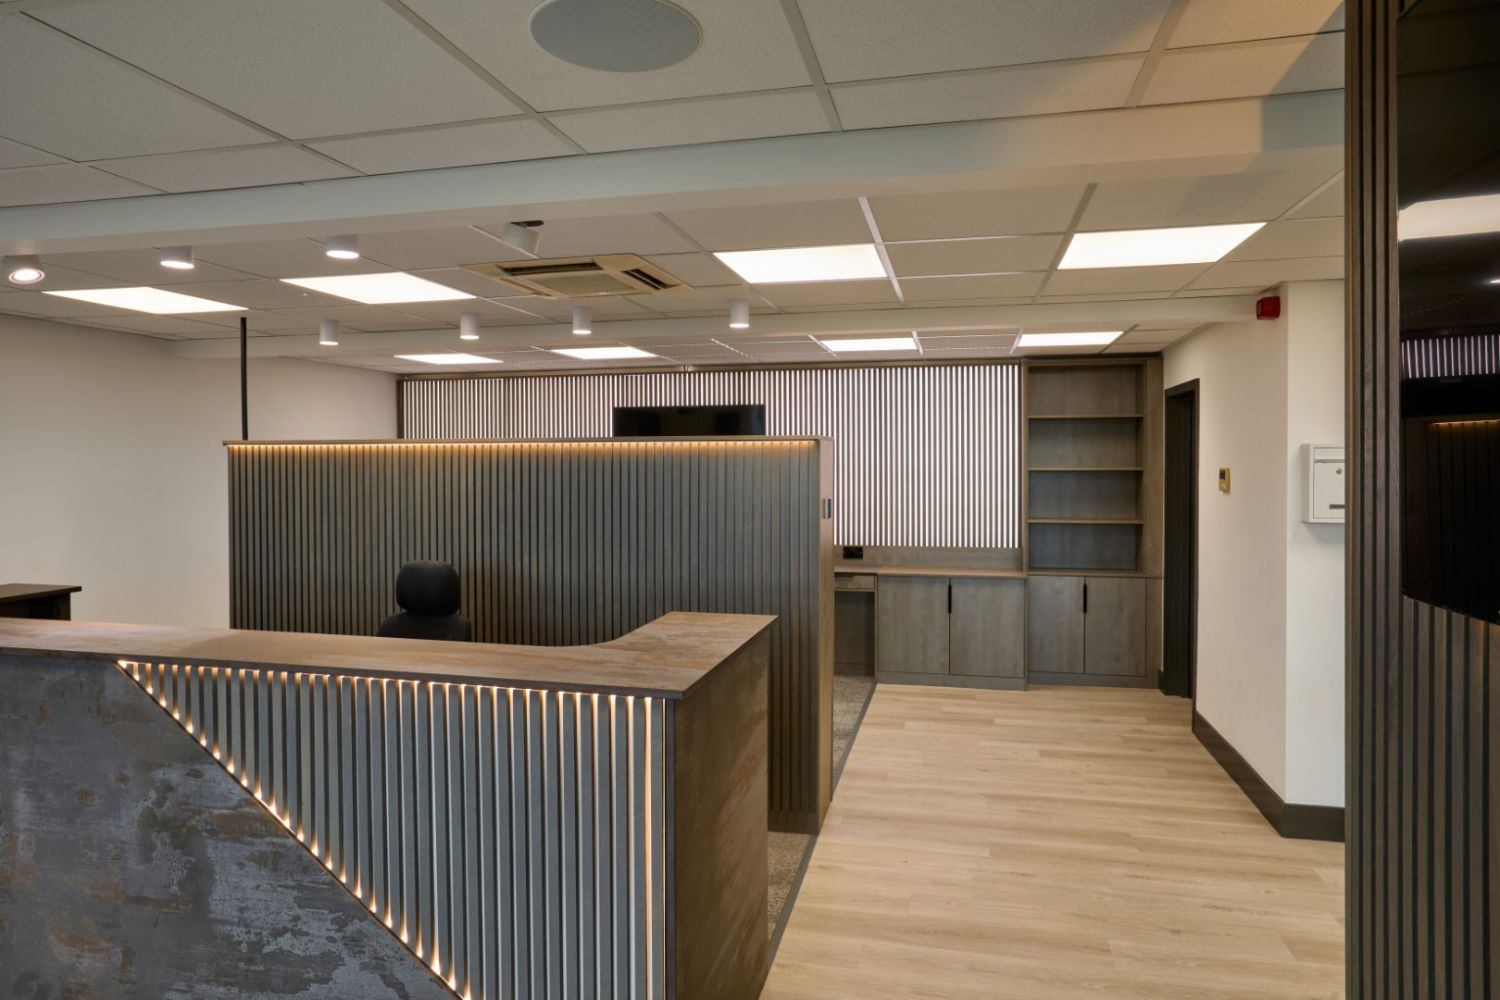
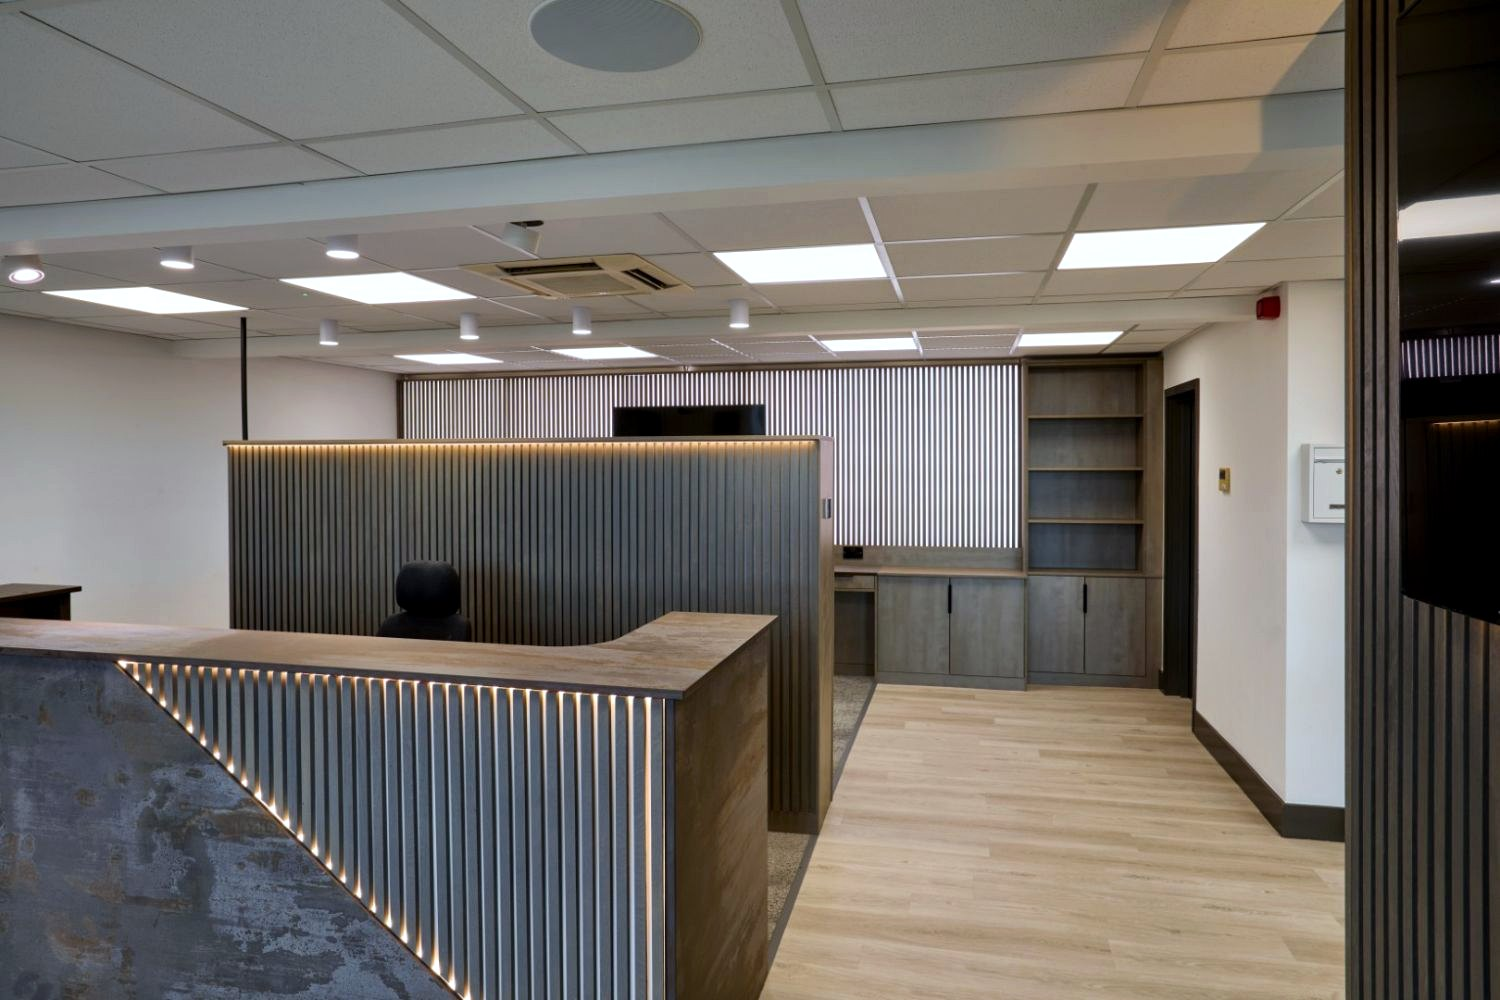
site: hi-res light-balanced photos; real office + storage + detail shots
Swap the remaining low-res gallery/office images for high-res shots from the
new project sets, and run a light-balance pass over the whole showcase set
(exposure clip, damped gray-world white balance, gentle contrast + sharpen),
web-optimised to a 2000px long edge.

- home-office panel + gallery now use the real fitted corner-desk shots
- gallery gains under-eaves storage, a bronze handle detail and soft-close
  drawers; drops the off-brand locker shot
- media-wall panel still awaits a real photo (only remaining placeholder-grade)

diff --git a/index.html b/index.html
@@ -163,7 +163,7 @@
   <section class="stack">
 
     <article class="panel p-hero">
-      <div class="img imgph" data-img="img.hero"><img src="/showcase/oval-a3-08.jpg" alt="Six-door fitted wardrobe by Sturij"></div><div class="scrim"></div>
+      <div class="img imgph" data-img="img.hero"><img src="/showcase/wardrobe-grey-angle.jpg" alt="Grey three-door fitted wardrobe by Sturij"></div><div class="scrim"></div>
       <div class="slot">Image slot · <b>2400 × 1500</b> · 16:10</div>
       <div class="cap">
         <div class="dimline reveal">Fitted furniture · Made in Yorkshire</div>
@@ -173,7 +173,7 @@
     </article>
 
     <article class="panel p-ward">
-      <div class="img imgph" data-img="img.ward"><img src="/showcase/oval-a3-12.jpg" alt="Fitted wardrobe interior"></div><div class="scrim"></div>
+      <div class="img imgph" data-img="img.ward"><img src="/showcase/wardrobe-cream-straight.jpg" alt="Fitted three-door wardrobe, straight elevation"></div><div class="scrim"></div>
       <div class="slot">Image slot · <b>2400 × 1500</b> · 16:10</div>
       <div class="cap">
         <div class="dimline reveal">Wardrobes &amp; bedrooms</div>
@@ -193,7 +193,7 @@
     </article>
 
     <article class="panel p-office">
-      <div class="img imgph" data-img="img.office"><img src="/showcase/vne-deskrun.jpg" alt="Continuous home-office desk run"></div><div class="scrim"></div>
+      <div class="img imgph" data-img="img.office"><img src="/showcase/office-desk-run.jpg" alt="Fitted home-office corner desk run"></div><div class="scrim"></div>
       <div class="slot">Image slot · <b>2400 × 1500</b> · 16:10</div>
       <div class="cap">
         <div class="dimline reveal">Home offices</div>
@@ -203,7 +203,7 @@
     </article>
 
     <article class="panel p-mat">
-      <div class="img imgph" data-img="img.mat"><img src="/showcase/oval-a3-05.jpg" alt="Quartz surface and finish detail"></div><div class="scrim"></div>
+      <div class="img imgph" data-img="img.mat"><img src="/showcase/wardrobe-open-shelves.jpg" alt="Oak-lined wardrobe interior — rails and shelving"></div><div class="scrim"></div>
       <div class="slot">Image slot · <b>2400 × 1500</b> · 16:10</div>
       <div class="cap">
         <div class="dimline reveal">Finishes</div>
@@ -250,12 +250,12 @@
       <h2 class="lead reveal" data-edit="work.h" data-html>Real rooms. <span class="em">Real fits.</span></h2>
       <p class="sub reveal" data-edit="work.p">A few pieces from the workshop. Every one made for a specific room, in a specific home.</p>
       <div class="galgrid">
-        <div class="tile reveal imgph" data-img="g.1"><img src="/showcase/oval-a3-11.jpg" alt="Six-door fitted wardrobe"><div class="slot"><b>1200×1500</b> · 4:5</div><div class="tcap" data-edit="g1">Six-door fitted wardrobe</div></div>
-        <div class="tile reveal imgph" data-img="g.2"><img src="/showcase/vne-window.jpg" alt="Media wall and storage"><div class="slot"><b>1200×1500</b> · 4:5</div><div class="tcap" data-edit="g2">Media wall &amp; storage</div></div>
-        <div class="tile reveal imgph" data-img="g.3"><img src="/showcase/oval-a2-01.jpg" alt="Fitted apartment kitchen"><div class="slot"><b>1200×1500</b> · 4:5</div><div class="tcap" data-edit="g3">Fitted apartment kitchen</div></div>
-        <div class="tile reveal imgph" data-img="g.4"><img src="/showcase/vne-brief.jpg" alt="Home-office desk run"><div class="slot"><b>1200×1500</b> · 4:5</div><div class="tcap" data-edit="g4">Home-office desk run</div></div>
-        <div class="tile reveal imgph" data-img="g.5"><img src="/showcase/oval-a3-06.jpg" alt="Pewter handle and finish detail"><div class="slot"><b>1200×1500</b> · 4:5</div><div class="tcap" data-edit="g5">Handle &amp; finish detail</div></div>
-        <div class="tile reveal imgph" data-img="g.6"><img src="/showcase/mf-06.jpg" alt="Locker and bench run"><div class="slot"><b>1200×1500</b> · 4:5</div><div class="tcap" data-edit="g6">Locker &amp; bench run</div></div>
+        <div class="tile reveal imgph" data-img="g.1"><img src="/showcase/wardrobe-grey-tall.jpg" alt="Fitted three-door wardrobe"><div class="slot"><b>1200×1500</b> · 4:5</div><div class="tcap" data-edit="g1">Fitted three-door wardrobe</div></div>
+        <div class="tile reveal imgph" data-img="g.2"><img src="/showcase/wardrobe-open-oak.jpg" alt="Oak-lined wardrobe interior"><div class="slot"><b>1200×1500</b> · 4:5</div><div class="tcap" data-edit="g2">Oak-lined interior</div></div>
+        <div class="tile reveal imgph" data-img="g.3"><img src="/showcase/eaves-storage.jpg" alt="Under-eaves fitted storage in a loft"><div class="slot"><b>1200×1500</b> · 4:5</div><div class="tcap" data-edit="g3">Under-eaves fitted storage</div></div>
+        <div class="tile reveal imgph" data-img="g.4"><img src="/showcase/office-corner.jpg" alt="Fitted home office with corner desk"><div class="slot"><b>1200×1500</b> · 4:5</div><div class="tcap" data-edit="g4">Fitted home office</div></div>
+        <div class="tile reveal imgph" data-img="g.5"><img src="/showcase/handle-detail.jpg" alt="Ribbed bronze bar handle detail"><div class="slot"><b>1200×1500</b> · 4:5</div><div class="tcap" data-edit="g5">Handle &amp; finish detail</div></div>
+        <div class="tile reveal imgph" data-img="g.6"><img src="/showcase/drawers-softclose.jpg" alt="Soft-close drawers open"><div class="slot"><b>1200×1500</b> · 4:5</div><div class="tcap" data-edit="g6">Soft-close drawers</div></div>
       </div>
     </div>
   </section>
